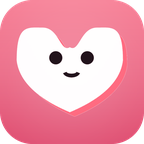
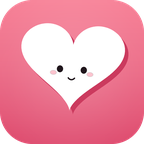
图标改为自研爱心：参数方程自绘心形+表情+腮红+错位投影（借鉴思路不搬素材），版本 0.5.4

Changed region(s): [[0.1111, 0.1389, 0.9167, 0.8056], [0.3333, 0.3333, 0.6667, 0.5833], [0.8056, 0.2222, 0.8333, 0.25]]

diff --git a/design/make_icon_heart2.py b/design/make_icon_heart2.py
@@ -1,0 +1,134 @@
+# -*- coding: utf-8 -*-
+"""「言岁AI」自研爱心图标（v2）：
+   借鉴 love-companion 图标的表达思路（极简白形 + 错位投影 + 有表情的脸），
+   形状、比例、表情全部程序自绘：参数方程爱心按包围盒精确放置、纵向略压扁更圆润、
+   眼睛+微笑+腮红、微歪头、品牌粉渐变底。2048 超采样 → 1024 输出。
+运行：python design/make_icon_heart2.py
+"""
+import math
+import os
+from PIL import Image, ImageDraw, ImageFilter
+
+ROOT = os.path.dirname(os.path.dirname(os.path.abspath(__file__)))
+DESIGN = os.path.join(ROOT, "design")
+SS = 2048
+S = 1024
+TILT = -3.5                       # 微歪头（负=向左）
+
+INK = (32, 22, 28)
+SHADOW_PINK = (203, 58, 94)
+BLUSH = (250, 158, 176)
+
+
+def raw_heart():
+    """参数方程爱心，返回归一化坐标点（x∈[-1,1]，y 上正下负）"""
+    pts = []
+    for i in range(720):
+        t = i * math.pi / 360
+        x = 16 * math.sin(t) ** 3
+        y = 13 * math.cos(t) - 5 * math.cos(2 * t) - 2 * math.cos(3 * t) - math.cos(4 * t)
+        pts.append((x / 16.0, y / 16.0))
+    return pts
+
+
+BASE = raw_heart()
+XS = [p[0] for p in BASE]
+YS = [p[1] for p in BASE]
+BW, BH = max(XS) - min(XS), max(YS) - min(YS)
+
+
+def heart_polygon(w, h, cx, cy, squash=0.92):
+    """把归一化爱心映射到目标宽高并居中（squash<1 更圆润饱满）"""
+    out = []
+    for x, y in BASE:
+        nx = (x - (max(XS) + min(XS)) / 2) / BW * w
+        ny = (y - (max(YS) + min(YS)) / 2) / BH * h * squash
+        out.append((cx + nx, cy - ny))
+    return out
+
+
+# ---- 版面：爱心占画布宽 74%，垂直略偏上（投影在右下，视觉重量更平衡） ----
+W = SS * 0.72
+H = W * 0.90
+CX, CY = SS / 2, SS * 0.470
+
+POLY = heart_polygon(W, H, CX, CY)
+
+face = Image.new("RGBA", (SS, SS), (0, 0, 0, 0))
+d = ImageDraw.Draw(face)
+d.polygon(POLY, fill=(255, 255, 255, 255))
+
+# 表情按爱心包围盒比例摆放
+eye_gap = W * 0.115      # 眼睛到中轴的横向距离
+eye_y = CY + H * 0.02
+eye_r = W * 0.030
+for s in (-1, 1):
+    d.ellipse([CX + s * eye_gap - eye_r, eye_y - eye_r * 1.10,
+               CX + s * eye_gap + eye_r, eye_y + eye_r * 1.10], fill=INK + (255,))
+
+# 微笑：下弧
+smile_r = W * 0.042
+smile_cy = eye_y + W * 0.062
+d.arc([CX - smile_r, smile_cy - smile_r, CX + smile_r, smile_cy + smile_r],
+      start=25, end=155, fill=INK + (255,), width=int(W * 0.013))
+
+# 腮红：眼睛斜下方，靠近脸颊内侧
+blush_r = W * 0.030
+blush_layer = Image.new("RGBA", (SS, SS), (0, 0, 0, 0))
+db = ImageDraw.Draw(blush_layer)
+for s in (-1, 1):
+    bx = CX + s * (eye_gap + W * 0.062)
+    by = eye_y + W * 0.038
+    db.ellipse([bx - blush_r, by - blush_r * 0.66, bx + blush_r, by + blush_r * 0.66],
+               fill=BLUSH + (155,))
+blush_layer = blush_layer.filter(ImageFilter.GaussianBlur(3))
+face = Image.alpha_composite(face, blush_layer)
+
+# 整体微歪头
+face = face.rotate(TILT, resample=Image.BICUBIC, center=(CX, CY))
+
+# ---- 错位投影：同形状深粉，右下方 ----
+shadow = Image.new("RGBA", (SS, SS), (0, 0, 0, 0))
+ImageDraw.Draw(shadow).polygon(POLY, fill=SHADOW_PINK + (255,))
+shadow = shadow.rotate(TILT, resample=Image.BICUBIC, center=(CX, CY))
+sx_off, sy_off = int(SS * 0.024), int(SS * 0.028)
+
+# ---- 品牌底：粉渐变 + 中心柔光 ----
+top, bottom = (247, 128, 150), (221, 71, 107)
+g = Image.new("RGB", (1, SS))
+gp = g.load()
+for y in range(SS):
+    t = y / (SS - 1)
+    gp[0, y] = tuple(int(top[i] + (bottom[i] - top[i]) * t) for i in range(3))
+bg = g.resize((SS, SS), Image.BILINEAR).convert("RGBA")
+glow_mask = Image.radial_gradient("L").resize((SS, SS), Image.BILINEAR).point(
+    lambda v: int((255 - v) * 0.26))
+glow = Image.new("RGBA", (SS, SS), (255, 228, 234, 0))
+glow.putalpha(glow_mask.filter(ImageFilter.GaussianBlur(140)))
+bg = Image.alpha_composite(bg, glow)
+
+canvas = bg.copy()
+canvas.alpha_composite(shadow, (sx_off, sy_off))
+canvas.alpha_composite(face)
+
+icon = canvas.resize((S, S), Image.LANCZOS)
+mask = Image.new("L", (S, S), 0)
+ImageDraw.Draw(mask).rounded_rectangle([0, 0, S - 1, S - 1], radius=int(S * 0.225), fill=255)
+icon.putalpha(mask)
+icon.save(os.path.join(DESIGN, "icon_1024.png"))
+
+fg = Image.new("RGBA", (SS, SS), (0, 0, 0, 0))
+fg.alpha_composite(shadow, (sx_off, sy_off))
+fg.alpha_composite(face)
+fg.resize((S, S), Image.LANCZOS).save(os.path.join(DESIGN, "ic_launcher_fg_1024.png"))
+bg.resize((S, S), Image.LANCZOS).save(os.path.join(DESIGN, "ic_launcher_bg_1024.png"))
+
+for px in (48, 96, 144, 192):
+    icon.resize((px, px), Image.LANCZOS).save(os.path.join(DESIGN, f"preview_{px}.png"))
+
+circle = canvas.resize((S, S), Image.LANCZOS)
+cm = Image.new("L", (S, S), 0)
+ImageDraw.Draw(cm).ellipse([0, 0, S - 1, S - 1], fill=255)
+circle.putalpha(cm)
+circle.resize((256, 256), Image.LANCZOS).save(os.path.join(DESIGN, "preview_adaptive_circle.png"))
+print("done")
